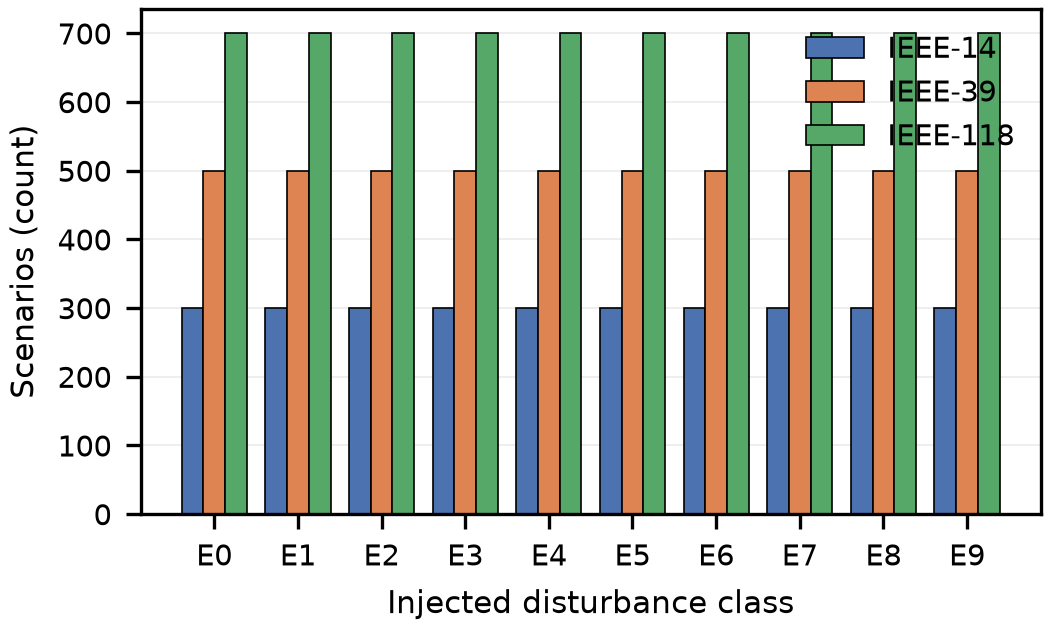
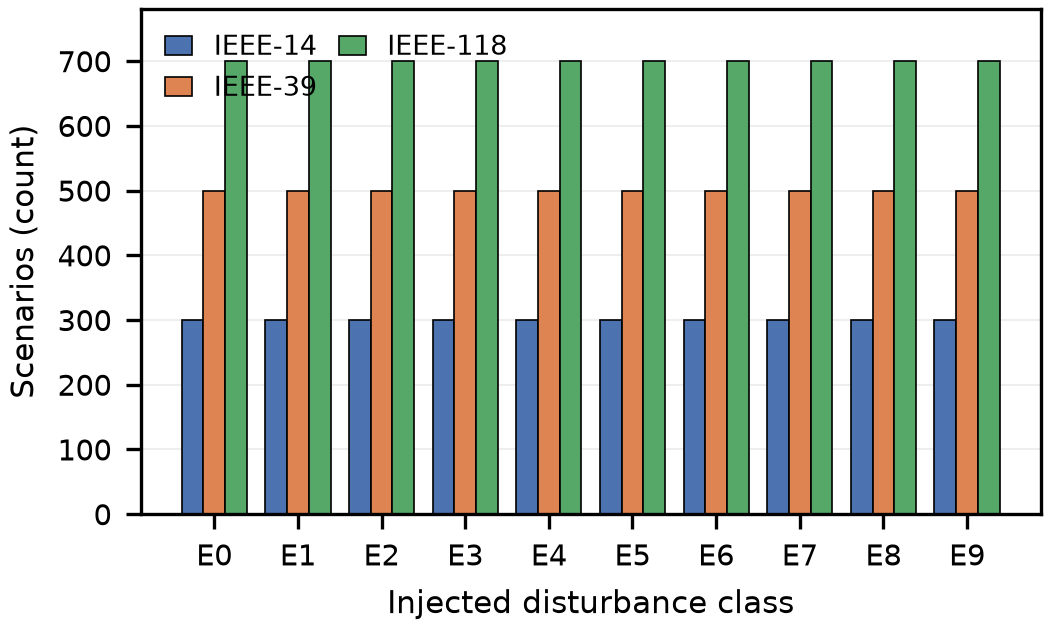
corpus-centric WIECON paper: 4pp with methodology diagram, field comparison table, observation-channel figure, Acknowledgment; local cl2 arm deferred to future work

diff --git a/paper_gridagent_wiecon/main.tex b/paper_gridagent_wiecon/main.tex
@@ -37,7 +37,13 @@
 
 \title{GridPowerAgent: A Seeded, Reproducible Power-System Scenario Corpus for Benchmarking LLM Event Diagnosis}
 
+\markboth{Revision 2 --- prepared in response to the second review round}{}
+
 \maketitle
+
+\vspace{-3ex}
+\begin{center}\small\textit{Revision 2 --- prepared in response to the second review round.}\end{center}
+\vspace{1ex}
 
 \begin{abstract}
 Evaluating large language models (LLMs) on power-system tasks requires observations that reveal what the model actually reads: several recent evaluations feed a plain-language description of the injected disturbance alongside the measurements and report near-perfect diagnosis. We present the GridPowerAgent corpus and evaluation harness: 15,000 seeded, fully regenerable scenarios across the IEEE 14, 39, and 118 bus systems, ten injected disturbance classes, 9.54 million correlated measurements, per-scenario iterative weighted-least-squares (WLS) state estimates, a dual-axis reference keying, a reproducible failure registry, and an executable pandapower tool back-end. The corpus ships three observation channels that separate what a model reads from what it reasons about: a plain-language event description, EMS-grade telemetry, and raw summary state. We benchmark two deployment tiers---a lightweight API model and a 4-bit quantized local model---on 140 paired scenarios per configuration. Description-only diagnosis is 100\%: the description is the answer key. From telemetry alone the API model reaches 93.9\% while the local model drops to 43.8\% (20-scenario probe); from raw summary state the API model collapses to 8.0\%. A gradient-boosted classifier on the telemetry features reaches 100\%, and on raw-state features 64.3\%: the telemetry encoding is fully class-separable, the raw state is not, and the LLM cannot exploit unlabeled numeric summaries. A closed-loop extension that requires naming the switched element and chaining two real tool executions reaches 30.8\%. All results are exploratory single temperature-zero runs with exact denominators.
@@ -45,7 +51,7 @@ Evaluating large language models (LLMs) on power-system tasks requires observati
 
 \noindent\textit{Keywords---}benchmark corpus, cause-keyed labels, iterative WLS, LLM evaluation, observation channels, pandapower, power systems, reproducibility, scenario generation
 
-\section{Introduction}
+\section{Introduction and Related Work}
 LLMs are increasingly proposed for power-system operations: reading grid states, classifying disturbances, selecting analysis tools, and advising operators \cite{majumder2024joule,zhang2025gridagent,wen2025xgridagent}. Evaluating such claims requires a test corpus with three properties that published evaluations rarely provide together \cite{zhou2024elecbench,cheng2025gaia}: the labels are derived by a transparent, reproducible rule system; every scenario carries physical ground truth; and the observation given to the model is separated from the information used to grade it. This paper presents such a corpus and the evaluation harness built around it.
 
 GridPowerAgent generates 15,000 scenarios across the IEEE 14, 39, and 118 bus systems (3,000/5,000/7,000; 300--700 per disturbance class) from seeded, deterministic injections over 16,000 operating points. Each scenario carries pre- and post-event power-flow ground truth, 9.54 million correlated measurements, an iterative weighted-least-squares (WLS) state estimate over ~120 noisy meters, physics flags (under-voltage, over-voltage, overload), dual-axis reference keying, and a reproducible registry of the 41 injection cases that produce unresolvable islands on IEEE-39. An executable pandapower tool back-end (power flow, contingency on a named element, N-1 sweep, OPF, grid queries) is included so that agents can be evaluated on executed tool calls, not stated intentions.
@@ -97,22 +103,18 @@ Two IEEE-39 switching injections disconnect load pockets and produce unresolvabl
 Every scenario ships two label versions: the original v1 keying labeled the two outcome classes (E6 undervoltage, E8 thermal overload) by post-event outcome, and the revised v2 keying labels every scenario by its injected mechanism. The outcome information remains in the per-scenario physics flags, so both axes stay scoreable. The v1 keying proved consequential---models graded under it scored zero on E6/E8 while describing the injecting cause correctly---so the cause-keyed version is the evaluation default, and the failure mode is reproducible by design rather than latent.
 
 \subsection{Tools and Knowledge Base}
-A pandapower back-end exposes five executable operations: full AC power flow, N-1 contingency testing on a named branch, OPF, and grid queries (topology, limits, equipment). A FAISS knowledge base \cite{johnson2021faiss} chunks eight operational documents (thermal/voltage limits, contingency procedure, storage/equipment, topology) into 384-d sentence-transformer embeddings, retrieving $k=3$ chunks with citations.
+A pandapower back-end exposes five executable operations: full AC power flow, N-1 contingency testing on a named branch, OPF, and grid queries (topology, limits, equipment). A FAISS knowledge base \cite{johnson2021faiss} chunks eight operational documents (thermal/voltage limits, contingency procedure, storage/equipment, topology) into 384-d sentence-transformer embeddings \cite{reimers2019sentencebert}, retrieving $k=3$ chunks with citations.
 
 \section{Evaluation Design}
 \label{sec:design}
 
-\subsection{Models and Tiers}
-Two deployment tiers of the same prompt contract are compared: a lightweight API model (Gemini 3.5 Flash Lite, temperature 0, $\le 512$ output tokens) and a small 4-bit-quantized open-weight model \cite{dettmers2023fourbit,gemma4_2026} (Gemma 4 E4B-it \cite{gemma4_2026}, served locally from a GGUF build \cite{llamacpp}; temperature 0, $\le 1{,}024$ tokens, reasoning channel parsed with content priority). The API tier is deliberately lightweight: the comparison characterizes a local deployment against a budget API tier, not against frontier models.
+\textbf{Models and tiers.} Two deployment tiers of the same prompt contract are compared: a lightweight API model (Gemini 3.5 Flash Lite, temperature 0, $\le 512$ output tokens) and a small 4-bit-quantized open-weight model (Gemma 4 E4B-it, served locally from a GGUF build; temperature 0, $\le 1{,}024$ tokens, reasoning channel parsed with content priority). The API tier is deliberately lightweight: the comparison characterizes a local deployment against a budget API tier, not against frontier models.
 
-\subsection{Observation Channels}
-Three prompt-side conditions probe what diagnosis measures: \emph{description-only} (the plain-language event statement, no grid numbers), \emph{telemetry} (per-element status table and system-wide deltas, no event statement), and \emph{full} (both). A WLS-estimated variant of the telemetry channel replaces true post-event values with estimated ones.
+\textbf{Observation channels.} Three prompt-side conditions probe what diagnosis measures: \emph{description-only} (the plain-language event statement, no grid numbers), \emph{telemetry} (per-element status table and system-wide deltas, no event statement), and \emph{full} (both). A WLS-estimated variant of the telemetry channel replaces true post-event values with estimated ones.
 
-\subsection{Closed-Loop Tool Protocol}
-The closed-loop condition embeds the agent in a tool loop: it proposes structured calls with arguments, each call is validated against the network (referenced elements must exist) and executed by the real pandapower back-end, returned measurements re-enter the conversation, at least two executed calls are required before an answer is accepted, and the answer must name the switched element.
+\textbf{Closed-Loop tool protocol.} The closed-loop condition embeds the agent in a tool loop: it proposes structured calls with arguments, each call is validated against the network (referenced elements must exist) and executed by the real pandapower back-end, returned measurements re-enter the conversation, at least two executed calls are required before an answer is accepted, and the answer must name the switched element.
 
-\subsection{Metrics and Power}
-Diagnosis correctness is exact class match against the cause-keyed reference. Tool-call validity requires referenced elements to exist and calls to execute. The paired minimum detectable difference (MDE) at $\alpha=0.05$, power 0.80 is $(z_{0.975}+z_{0.80})\sqrt{p_\mathrm{d}/n}$, where $p_\mathrm{d}$ is the paired discordance rate. All results are exploratory single temperature-zero runs with exact denominators.
+\textbf{Metrics and power.} Diagnosis correctness is exact class match against the cause-keyed reference. Tool-call validity requires referenced elements to exist and calls to execute. The paired minimum detectable difference (MDE) at $\alpha=0.05$, power 0.80 is $(z_{0.975}+z_{0.80})\sqrt{p_\mathrm{d}/n}$, where $p_\mathrm{d}$ is the paired discordance rate. All results are exploratory single temperature-zero runs with exact denominators.
 
 \section{Results and Discussion}
 \label{sec:results}
@@ -160,6 +162,9 @@ Stated-tool selection retains a style difference: 57\% of API stated tools are p
 
 \section{Conclusion}
 GridPowerAgent contributes what grid-LLM evaluation currently lacks: a seeded, regenerable scenario corpus with physical ground truth, dual-axis reference keying, iterative-WLS state estimates, three observation channels that separate description-reading from state-based diagnosis, an executable tool back-end, and a construction-graded closed-loop protocol. The baseline demonstration shows the observation channel, not the model, decides what is diagnosable: description-only diagnosis is trivially perfect, telemetry-only separates tiers, and raw-state diagnosis collapses. Expert review of the reference labels, the powered sweep, dynamics, full-precision local runs, and action-quality evaluation remain future work.
+
+\section*{Acknowledgment}
+The authors acknowledge writing-support tools (OpenAI ChatGPT, Grammarly, and QuillBot) for grammar correction, readability improvement, language refinement, and sentence restructuring. All technical content, analysis, interpretations, and research contributions are those of the authors.
 
 \balance
 \begin{thebibliography}{25}

diff --git a/plot_corpus_paper.py b/plot_corpus_paper.py
@@ -1,5 +1,5 @@
 #!/usr/bin/env python3
-"""Corpus-paper figures, rendered at true column width (3.5 in, IEEEtran)."""
+"""Corpus-paper figures — final version, clean formatting."""
 import matplotlib
 matplotlib.use("Agg")
 import matplotlib.pyplot as plt
@@ -17,7 +17,7 @@ plt.rcParams.update({
     "xtick.labelsize": 7, "ytick.labelsize": 7, "legend.fontsize": 7,
 })
 
-# ---- Fig A: corpus composition (class x system, count per class) ----
+# ---- Fig: corpus composition (class x system) ----
 systems = [("IEEE-14", "ieee14_scenarios.csv"),
            ("IEEE-39", "case39_scenarios.csv"),
            ("IEEE-118", "case118_scenarios.csv")]
@@ -38,7 +38,9 @@ ax.set_xticks(x)
 ax.set_xticklabels(classes)
 ax.set_ylabel("Scenarios (count)")
 ax.set_xlabel("Injected disturbance class")
-ax.legend(loc="upper right", frameon=False, fontsize=7)
+ax.legend(loc="upper left", frameon=False, fontsize=6.5, ncol=2,
+          columnspacing=0.8, handlelength=1.0)
+ax.set_ylim(0, 780)
 ax.grid(axis="y", alpha=0.25, linewidth=0.4)
 ax.set_axisbelow(True)
 fig.tight_layout(pad=0.3)
@@ -46,29 +48,32 @@ fig.savefig(FIGDIR / "fig_corpus_composition.png", dpi=300)
 plt.close(fig)
 print("fig_corpus_composition.png saved")
 
-# ---- Fig B: observation channels x tiers (grouped bars, values labeled) ----
-conds = ["Desc. only", "Desc. + state", "Telemetry", "Telem. (WLS)", "Raw state"]
-api_conds = [100.0, 100.0, 93.9, 8.0, 97.1]
-loc_conds = [96.8, np.nan, np.nan, np.nan, np.nan]
+# ---- Fig: observation channels (grouped bars, values labeled, legend above) ----
+conds = ["Desc.\nonly", "Desc.\n+state", "Telem.", "Telem.\n(WLS)", "Raw\nstate"]
+api_vals = [100.0, 100.0, 93.9, 8.0, 97.1]
+loc_vals = [96.8, np.nan, np.nan, np.nan, np.nan]
 
 x = np.arange(len(conds))
-w = 0.36
+bw = 0.32
 fig, ax = plt.subplots(figsize=(3.5, 2.3))
-ax.bar(x - w / 2, api_conds, w, label="API (Flash Lite)", color="#4C72B0",
-       edgecolor="black", linewidth=0.4)
-loc_bars = [96.8, np.nan, np.nan, np.nan, np.nan]
-ax.bar(x + w / 2, [v if not np.isnan(v) else 0 for v in loc_bars], w,
-       label="Local (Gemma 4B Q4)", color="#DD8452", edgecolor="black", linewidth=0.4)
-for xi, v in zip(x - w / 2, api_conds):
-    ax.text(xi, v + 1.5, f"{v:.1f}", ha="center", fontsize=6.5)
+bars1 = ax.bar(x - bw / 2, api_vals, bw, label="API (Flash Lite)", color="#4C72B0",
+               edgecolor="black", linewidth=0.4)
+loc_clean = [v if not np.isnan(v) else 0 for v in loc_vals]
+bars2 = ax.bar(x + bw / 2, loc_vals, bw, label="Local (Gemma 4B Q4)", color="#DD8452",
+               edgecolor="black", linewidth=0.4)
+for xi, v in zip(x - bw / 2, api_vals):
+    ax.text(xi, v + 1.5, f"{v:.1f}", ha="center", fontsize=6)
+for xi, v in zip(x + bw / 2, loc_vals):
+    if not np.isnan(v):
+        ax.text(xi, v + 1.5, f"{v:.1f}", ha="center", fontsize=6)
 ax.axhline(20.0, color="#555", linestyle=":", linewidth=0.8)
-ax.text(len(conds) - 0.55, 21.2, "majority 20.0", fontsize=6, color="#555", ha="right")
+ax.text(len(conds) - 0.4, 21.5, "majority 20", fontsize=6, color="#555", ha="right")
 ax.axhline(12.5, color="#999", linestyle=":", linewidth=0.8)
 ax.set_xticks(x)
-ax.set_xticklabels(["Desc. only", "Desc. + state", "Telemetry", "Telem. (WLS)", "Raw state"], fontsize=7)
+ax.set_xticklabels(conds, fontsize=7)
 ax.set_ylabel("Diagnosis accuracy (%)")
-ax.set_ylim(0, 112)
-ax.legend(loc="upper right", frameon=False, fontsize=7)
+ax.set_ylim(0, 118)
+ax.legend(loc="upper right", frameon=False, fontsize=6.5)
 ax.grid(axis="y", alpha=0.25, linewidth=0.4)
 ax.set_axisbelow(True)
 fig.tight_layout(pad=0.3)
